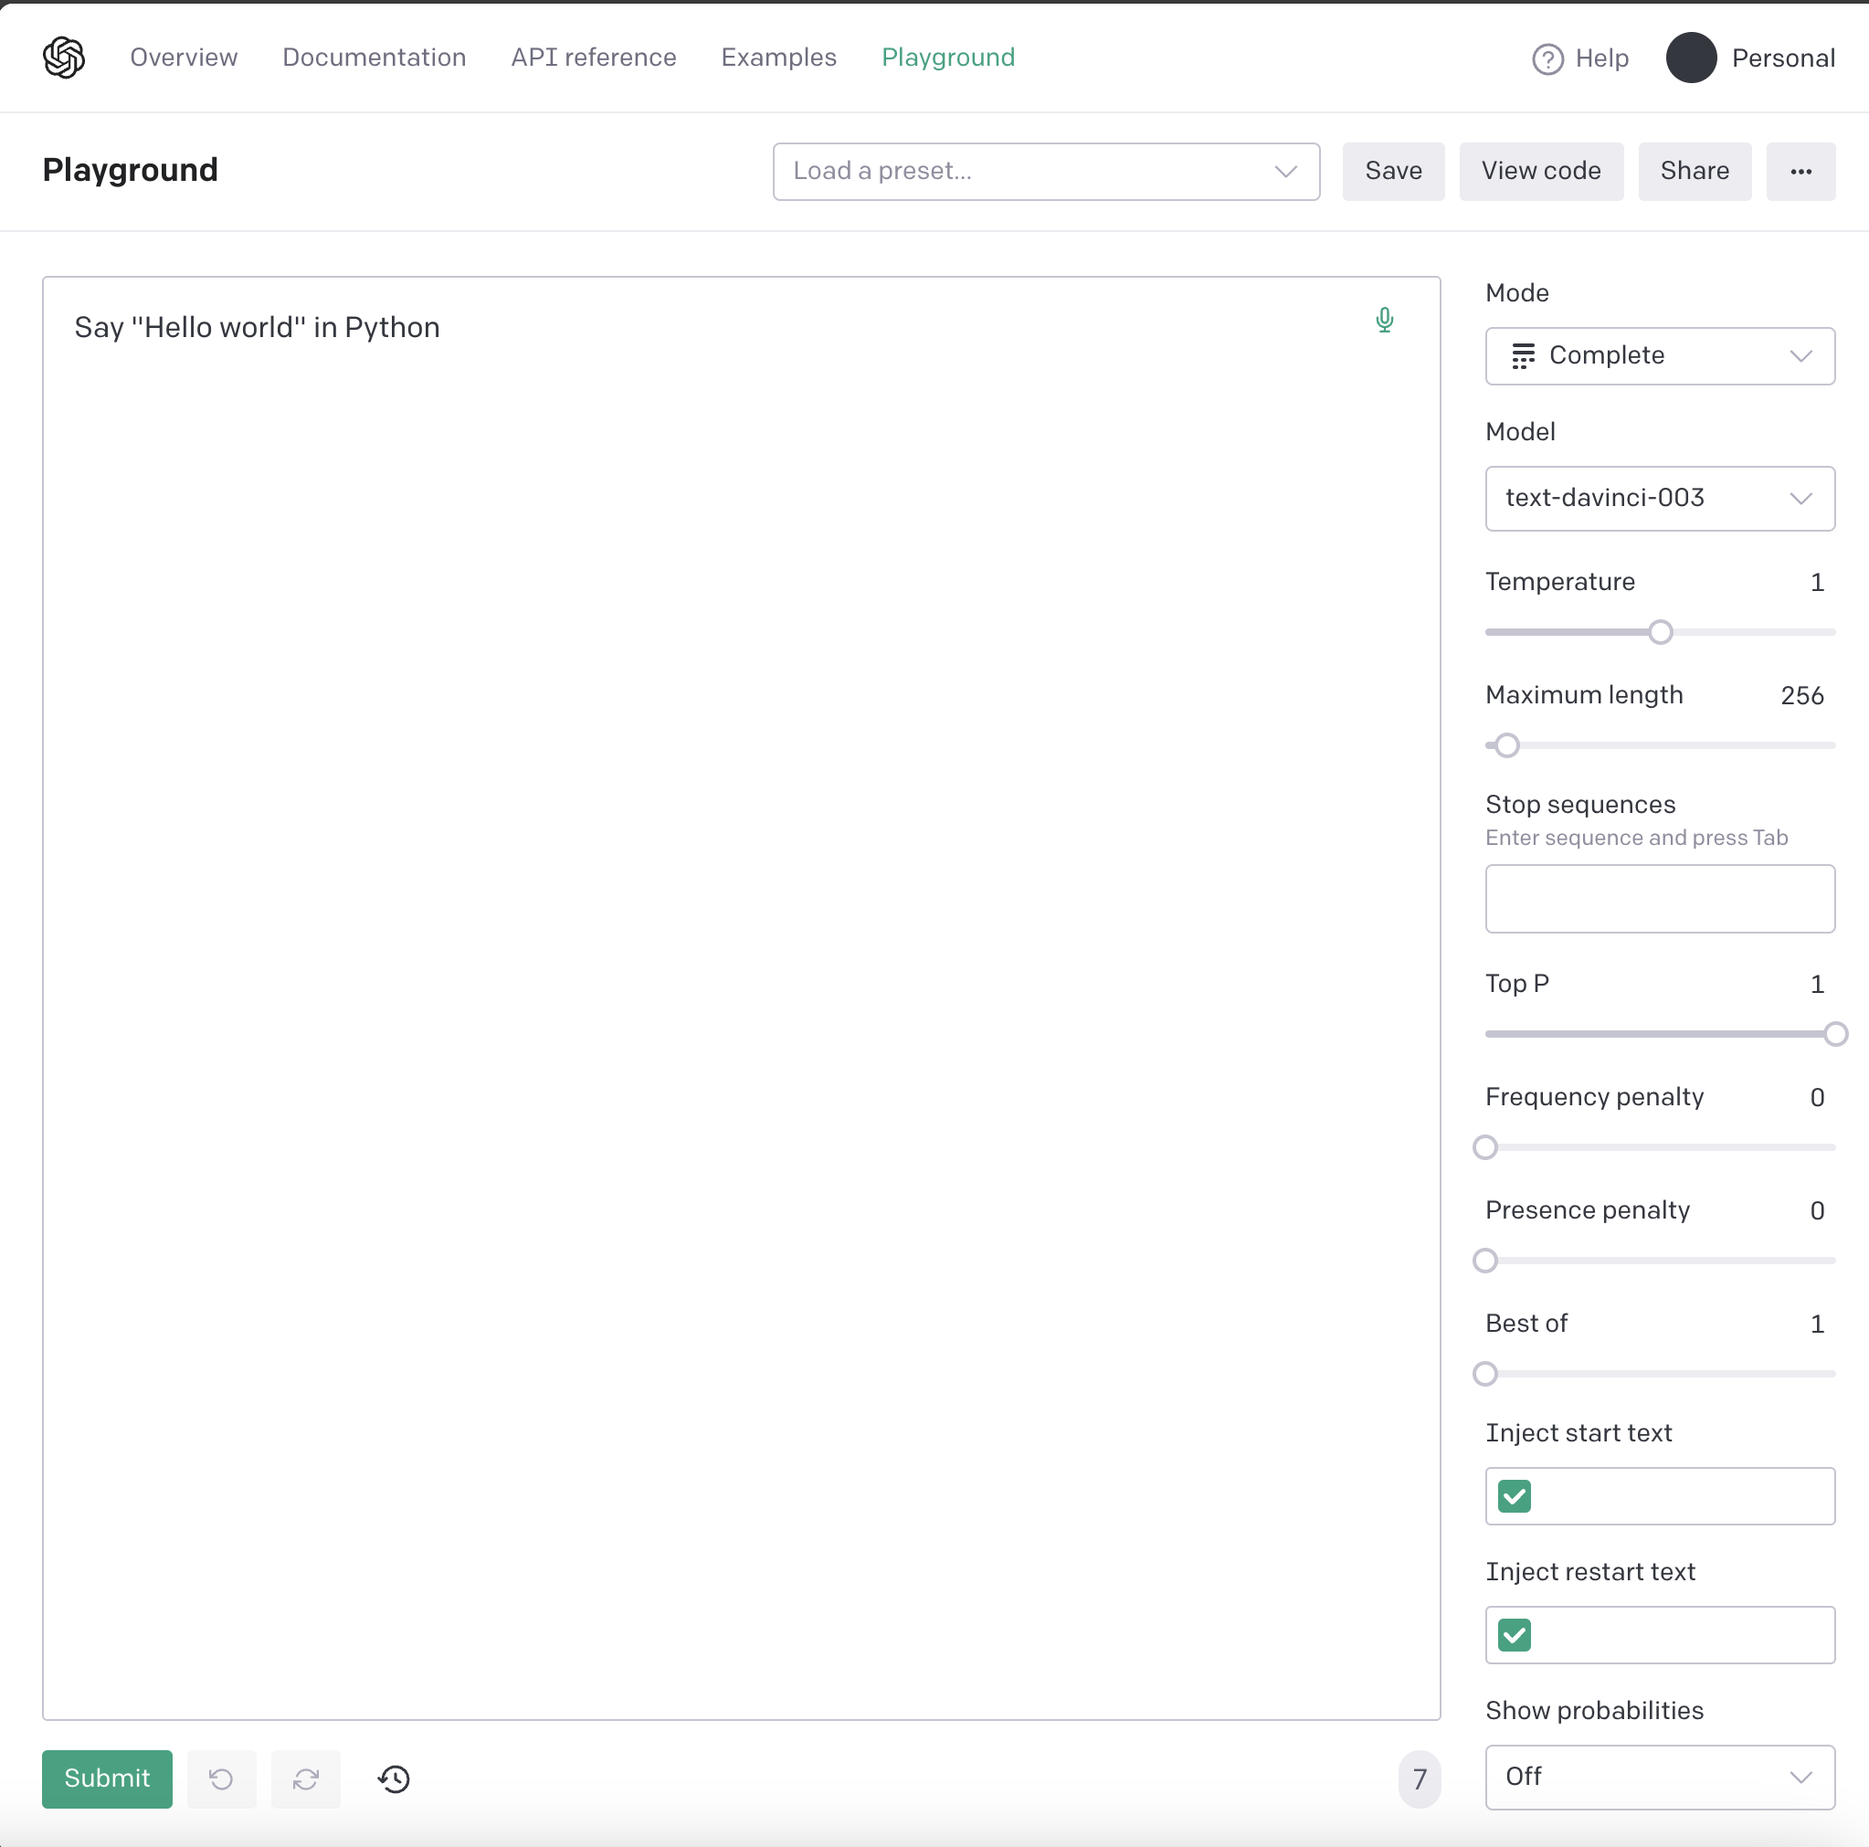
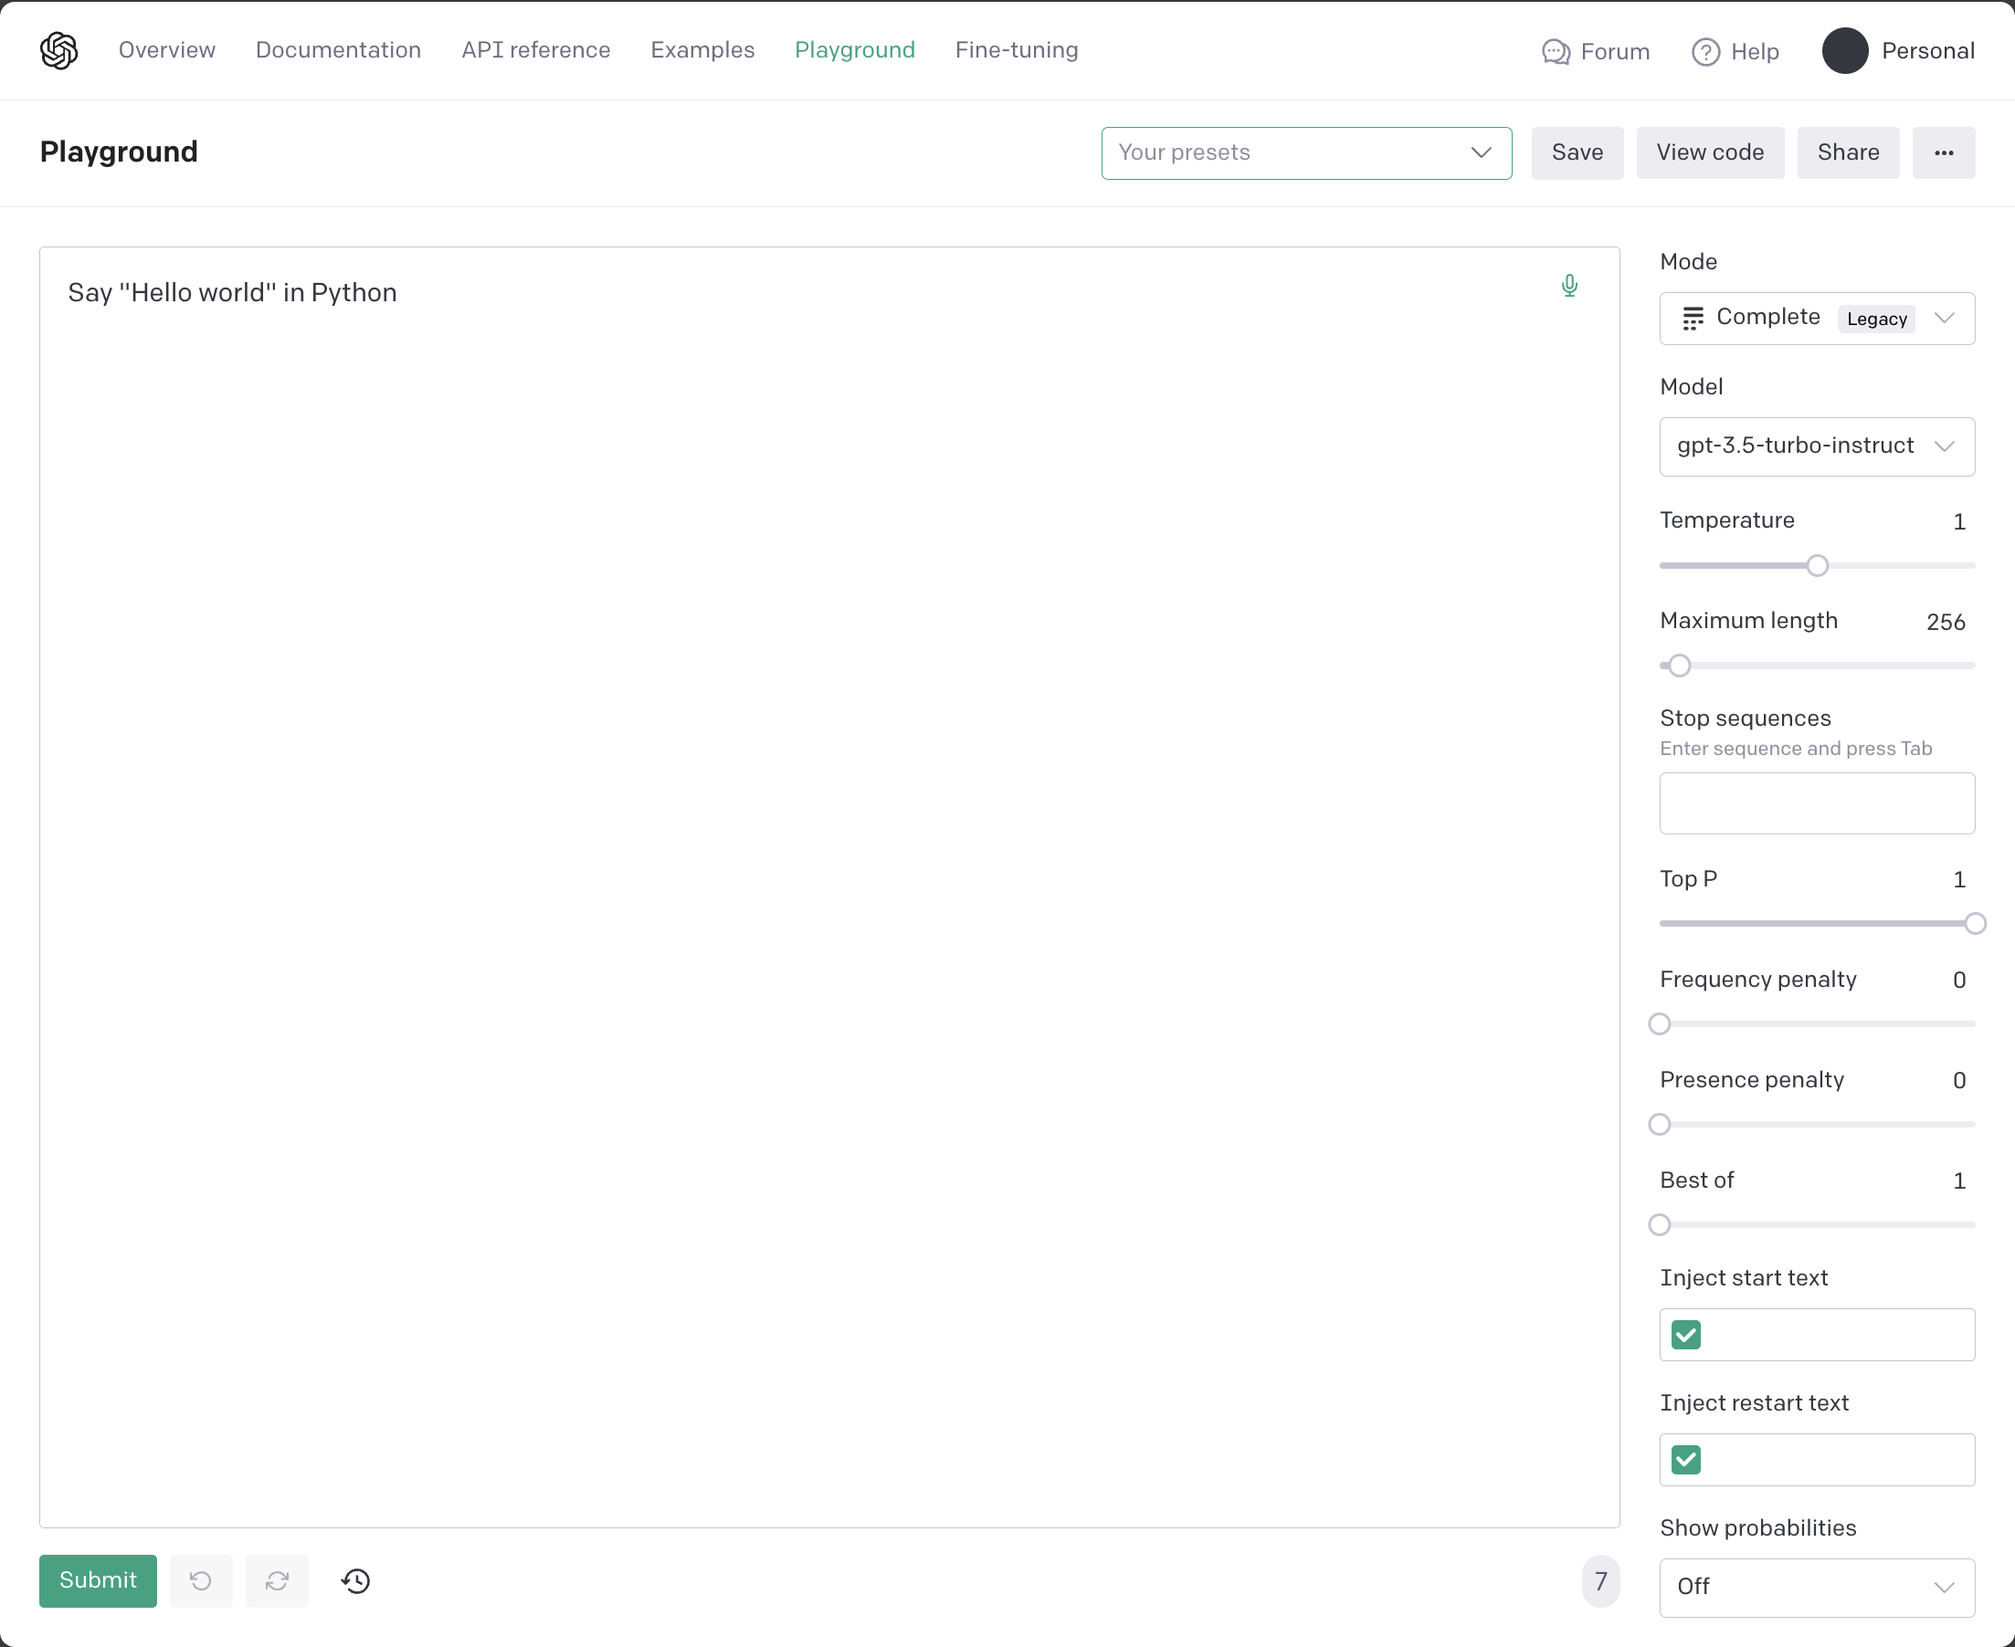
Update to use gpt-3.5-turbo-instruct instead of text-davinci-003

diff --git a/code/08/05.py b/code/08/05.py
@@ -1,4 +1,7 @@
-from llm_utils import Template
+import openai
+import os
+
+openai.api_key = os.getenv('OPENAI_API_KEY')
 
 guide = '''
 You are a large language model trained on vast amounts of data.
@@ -6,8 +9,9 @@ You respond to questions based on the data you were trained on.
 When you do not have enough information to provide an accurate answer, you will say so.
 '''
 
-chat = Template({
-    'max_tokens': 500,
-    'prompt': guide + 'Tell me about the habitat and behavior of the flying razor fish.'})
+response = openai.Completion.create(
+    model='text-davinci-003',
+    max_tokens=500,
+    prompt=guide + 'Tell me about the habitat and behavior of the flying razor fish.')
 
-print(chat.completion({}).choices[0].text)
+print(response.choices[0].text)

diff --git a/code/08/03.py b/code/08/03.py
@@ -1,7 +1,11 @@
-from llm_utils import Template
+import openai
+import os
 
-chat = Template({
-    'max_tokens': 500,
-    'prompt': 'Tell me about the habitat and behavior of the flying razor fish.'})
+openai.api_key = os.getenv('OPENAI_API_KEY')
 
-print(chat.completion({}).choices[0].text)
+response = openai.Completion.create(
+    model='text-davinci-003',
+    max_tokens=500,
+    prompt='Tell me about the habitat and behavior of the flying razor fish.')
+
+print(response.choices[0].text)

diff --git a/code/llm_utils/llm_utils.py b/code/llm_utils/llm_utils.py
@@ -35,7 +35,7 @@ class Template:
         instance['prompt'] = insert_params(instance['prompt'], **parameters)
 
         return openai.Completion.create(
-            model='text-davinci-003',
+            model='gpt-3.5-turbo-instruct',
             **instance)
 
 

diff --git a/code/01/05.py b/code/01/05.py
@@ -3,7 +3,7 @@ import os
 
 openai.api_key = os.getenv('OPENAI_API_KEY')
 response = openai.Completion.create(
-    model='text-davinci-003',
+    model='gpt-3.5-turbo-instruct',
     prompt='Say "Hello world" in Python')
 
 print(response.choices[0].text)

diff --git a/code/02/02.py b/code/02/02.py
@@ -3,7 +3,7 @@ import os
 
 openai.api_key = os.getenv('OPENAI_API_KEY')
 response = openai.Completion.create(
-    model='text-davinci-003',
+    model='gpt-3.5-turbo-instruct',
     prompt='Say "Hello world" in Python')
 
 print(response.choices[0].text)

diff --git a/code/03/13.py b/code/03/13.py
@@ -30,5 +30,5 @@ class Template:
         instance['prompt'] = format(instance['prompt'], **parameters)
 
         return openai.Completion.create(
-            model='text-davinci-003',
+            model='gpt-3.5-turbo-instruct',
             **instance)

diff --git a/code/02/12.py b/code/02/12.py
@@ -3,7 +3,7 @@ import os
 
 openai.api_key = os.getenv('OPENAI_API_KEY')
 response = openai.Completion.create(
-    model='text-davinci-003',
+    model='gpt-3.5-turbo-instruct',
     prompt='Say "Hello world" in Python')
 
 print(response)

diff --git a/code/02/10.py b/code/02/10.py
@@ -1,6 +1,6 @@
 import tiktoken
 
-enc = tiktoken.encoding_for_model('text-davinci-003')
+enc = tiktoken.encoding_for_model('gpt-3.5-turbo-instruct')
 tokens = enc.encode('Say "Hello world" in Python')
 
 print(tokens)

diff --git a/text/02.md b/text/02.md
@@ -290,7 +290,7 @@ We will focus on the so-called *completion models* and their applications.
 > **Definition**: A *completion model* takes a prompt and returns one or more
 predicted completions, meaning text that is most likely to follow the prompt.
 
-In chapter 1, we prompted `text-davinci-003` (a model from the GPT-3.5
+In chapter 1, we prompted `gpt-3.5-turbo-instruct` (a model from the GPT-3.5
 generation) to say “Hello world!” in Python. Let’s take another look at the code
 (listing 2.2), since we’re trying to better understand the API.
 
@@ -300,13 +300,13 @@ import os
 
 openai.api_key = os.getenv('OPENAI_API_KEY')
 response = openai.Completion.create(
-    model='text-davinci-003',
+    model='gpt-3.5-turbo-instruct',
     prompt='Say "Hello world" in Python')
 
 print(response.choices[0].text)
 ```
 
-*Listing 2.2: “Hello world” in Python by text-davinci-003.*
+*Listing 2.2: “Hello world” in Python by gpt-3.5-turbo-instruct.*
 
 We are calling the create completion API, passing it the model and prompt. Since
 chat/interactive interactions have become a key scenario, OpenAI introduced
@@ -369,7 +369,7 @@ in fact this is not the case. Each request contains the full conversation
 history!
 
 For interactive scenarios, when using a completion model like
-`text-davinci-003`, you would use a prompt like listing 2.5.
+`gpt-3.5-turbo-instruct`, you would use a prompt like listing 2.5.
 
 ```text
 You are a helpful AI assistant.
@@ -461,7 +461,7 @@ We extract the first `message`, print it to the console, and append it to
 history for subsequent calls.
 
 That’s it! You can take it for a spin and have a quick chat with
-`gpt-3.5-turbo`. Note if we would’ve used `text-davinci-003` for this, we
+`gpt-3.5-turbo`. Note if we would’ve used `gpt-3.5-turbo-instruct` for this, we
 would’ve handcrafted the history by appending to a string.
 
 The full list of GPT-3.5 models offered at the time of writing is captured in
@@ -469,26 +469,26 @@ table 2.2.
 
 | MODEL | DESCRIPTION |
 | --- | --- |
-| gpt-3.5-turbo | Most capable GPT-3.5 model and optimized for chat at 1/10th the cost of text-davinci-003. Will be updated with our latest model iteration. |
+| gpt-3.5-turbo | Most capable GPT-3.5 model and optimized for chat at 1/10th the cost of text-davinci-003. |
 | gpt-3.5-turbo-16k | Same capabilities as the standard gpt-3.5-turbo model but with 4 times the context. |
+| gpt-3.5-turbo-instruct | Similar capabilities as text-davinci-003 but compatible with legacy Completions endpoint and not Chat Completions. |
 | gpt-3.5-turbo-0613 | Snapshot of gpt-3.5-turbo from June 13th 2023 with function calling data. Unlike gpt-3.5-turbo, this model will not receive updates, and will be deprecated 3 months after a new version is released. |
 | gpt-3.5-turbo-16k-0613 | Snapshot of gpt-3.5-turbo-16k from June 13th 2023. Unlike gpt-3.5-turbo-16k, this model will not receive updates, and will be deprecated 3 months after a new version is released. |
-| text-davinci-003 | Can do any language task with better quality, longer output, and consistent instruction-following than the curie, babbage, or ada models. Also supports inserting completions within text. |
-| text-davinci-002 | Similar capabilities to text-davinci-003 but trained with supervised fine-tuning instead of reinforcement learning. |
-| code-davinci-002 | Optimized for code-completion tasks. |
+| text-davinci-003 (Legacy) | Can do any language task with better quality, longer output, and consistent instruction-following than the curie, babbage, or ada models. Also supports inserting completions within text. |
+| text-davinci-002 (Legacy) | Similar capabilities to text-davinci-003 but trained with supervised fine-tuning instead of reinforcement learning. |
+| code-davinci-002 (Legacy) | Optimized for code-completion tasks. |
 
 *Table 2.2: GPT-3.5 models.*
 
-ada, babbage, and currie mentioned in the table (`text-ada-001`,
-`text-babbage-001`, and `text-currie-001`), together with `text-davinci-001`,
-are part of the older GPT-3 family of models.
+*ada*, *babbage*, and *currie* mentioned in the table as a comparison to
+*`text-davinci-003` (`text-ada-001`, `text-babbage-001`, and `text-currie-001`),
+*together with `text-davinci-001`, are part of the older GPT-3 family of models.
 
-We’ll use `text-davinci-003` and `gpt-3.5-turbo` throughout this book. Table 2.2
-mentions that `gpt-3.5-turbo` is 10 times cheaper than `text-davinci-003`. We
-started with `text-davinci-003` for its simpler prompt structure, but since
-`gpt-3.5-turbo` is the model that will continue being updated and it costs an
-order of magnitude less, we will be using this model in most of the following
-code examples.
+We’ll use `gpt-3.5-turbo-instruct` and `gpt-3.5-turbo` throughout this book. In
+the first draft of this book, examples used `text-davinci-003`, which used to be
+the top performing completion model (with `gpt-3.5-turbo` and GPT-4 being chat
+completion models). Since then, `text-davinci-003` has been deprecated in favor
+of the new `gpt-3.5-turbo-instruct`.
 
 Since we’re talking about costs, to better understand how OpenAI charges for
 usage, we need to understand tokens.
@@ -552,7 +552,7 @@ shows the code to do this.
 ```python
 import tiktoken
 
-enc = tiktoken.encoding_for_model('text-davinci-003')
+enc = tiktoken.encoding_for_model('gpt-3.5-turbo-instruct')
 tokens = enc.encode('Say "Hello world" in Python')
 
 print(tokens)
@@ -668,7 +668,7 @@ returned by the model, we’ll print the whole reply.
 ### Completion response
 
 Listing 2.12 shows the code, the only difference from listing 2.2 is on the last
-line.
+line (we’re printing the whole response payload, not just the completion text).
 
 ```python
 import openai
@@ -676,7 +676,7 @@ import os
 
 openai.api_key = os.getenv('OPENAI_API_KEY')
 response = openai.Completion.create(
-    model='text-davinci-003',
+    model='gpt-3.5-turbo-instruct',
     prompt='Say "Hello world" in Python')
 
 print(response)
@@ -696,14 +696,14 @@ Listing 2.13 shows the JSON response we get when running this code.
       "text": "\n\nprint(\"Hello world\")"
     }
   ],
-  "created": 1682285944,
-  "id": "cmpl-78biCYERRqP7jSHMBy8nXoMVshOAr",
-  "model": "text-davinci-003",
+  "created": 1696028086,
+  "id": "cmpl-84GfewCM1npGywwNEDFMlMd5SzfFL",
+  "model": "gpt-3.5-turbo-instruct",
   "object": "text_completion",
   "usage": {
-    "completion_tokens": 7,
+    "completion_tokens": 6,
     "prompt_tokens": 7,
-    "total_tokens": 14
+    "total_tokens": 13
   }
 }
 ```
@@ -1190,7 +1190,7 @@ engineering.
   3/4 of a word.
 * Models have an upper bound of how many tokens they can used due to their
   architecture. OpenAI charges API calls based on token usage.
-* Completion models (like `text-davinci-003`) take a prompt and return text most
+* Completion models (like `gpt-3.5-turbo-instruct`) take a prompt and return text most
   likely to follow the prompt.
 * Chat completion models (like `gpt-3.5-turbo`) are similar to completion models
   but optimized for chat interactions.

diff --git a/text/08.md b/text/08.md
@@ -95,19 +95,24 @@ Older models don’t do that well. Listing 8.3 shows the same prompt sent to
 `text-davinci-003`.
 
 ```python
-from llm_utils import Template
+import openai
+import os
 
-chat = Template({
-    'max_tokens': 500,
-    'prompt': 'Tell me about the habitat and behavior of the flying razor fish.'})
+openai.api_key = os.getenv('OPENAI_API_KEY')
 
-print(chat.completion({}).choices[0].text)
+response = openai.Completion.create(
+    model='text-davinci-003',
+    max_tokens=500,
+    prompt='Tell me about the habitat and behavior of the flying razor fish.')
+
+print(response.choices[0].text)
 ```
 
 *Listing 8.3: Asking text-davinci-003 for a description of a made-up species.*
 
-Unlike `gpt-3.5-tubro`, `text-davinci-003` has no problem hallucinating this
-inexistent species of fish (listing 8.4).
+We can’t use `llm_utils` here since our helpers use `gpt-3.5-turbo-instruct` for
+completion, not `text-davinci-003`. Unlike `gpt-3.5-tubro`, `text-davinci-003`
+has no problem hallucinating this inexistent species of fish (listing 8.4).
 
 ```text
 The flying razor fish (Hemipteronotus signatus) is a species of freshwater fish
@@ -143,7 +148,10 @@ prompt context and tell it to not make things up. Listing 8.5 shows an updated
 prompt for `text-davinci-003`.
 
 ```python
-from llm_utils import Template
+import openai
+import os
+
+openai.api_key = os.getenv('OPENAI_API_KEY')
 
 guide = '''
 You are a large language model trained on vast amounts of data.
@@ -151,11 +159,12 @@ You respond to questions based on the data you were trained on.
 When you do not have enough information to provide an accurate answer, you will say so.
 '''
 
-chat = Template({
-    'max_tokens': 500,
-    'prompt': guide + 'Tell me about the habitat and behavior of the flying razor fish.'})
+response = openai.Completion.create(
+    model='text-davinci-003',
+    max_tokens=500,
+    prompt=guide + 'Tell me about the habitat and behavior of the flying razor fish.')
 
-print(chat.completion({}).choices[0].text)
+print(response.choices[0].text)
 ```
 
 *Listing 8.5: Additional guidance to the model to avoid hallucinations.*

diff --git a/text/03.md b/text/03.md
@@ -423,7 +423,7 @@ class Template:
         instance['prompt'] = insert_params(instance['prompt'], **parameters)
 
         return openai.Completion.create(
-            model='text-davinci-003',
+            model='gpt-3.5-turbo-instruct',
             **instance)
 ```
 
@@ -501,10 +501,10 @@ print(response.choices[0].text)
 Now we can reuse our prompts by simply loading the JSON prompt template file and
 calling the `completion()` function with the right parameters to be replaced.
 
-To keep things simple, we used `text-davinci-003`. Since this is more expensive
-than `gpt-3.5-turbo`, let’s also provide an alternative that templates chat
-completions. Listing 3.15 shows how our lawyer large language model template
-would look like for chat completions. We’ll store this as `lawyer_chat.json`.
+To keep things simple, we used `gpt-3.5-turbo-instruct`. Let’s also provide an
+alternative that templates chat completions. Listing 3.15 shows how our lawyer
+large language model template would look like for chat completions. We’ll store
+this as `lawyer_chat.json`.
 
 ```json
 {

diff --git a/text/01.md b/text/01.md
@@ -414,7 +414,7 @@ import os
 
 openai.api_key = os.getenv('OPENAI_API_KEY')
 response = openai.Completion.create(
-    model='text-davinci-003',
+    model='gpt-3.5-turbo-instruct',
     prompt='Say "Hello world" in Python')
 
 print(response.choices[0].text)
@@ -424,8 +424,9 @@ print(response.choices[0].text)
 
 We are retrieving the OpenAI API key from the environment using `os.getenv()`,
 then calling the `openai.Completion.create()` API with the model
-`text-davinci-003` and the prompt `Say "Hello world" in Python`. We’ll discuss
-available models and how to call OpenAI APIs at length in the next chapter.
+`gpt-3.5-turbo-instruct` and the prompt `Say "Hello world" in Python`. We’ll
+discuss available models and how to call OpenAI APIs at length in the next
+chapter.
 
 The key takeaway for now is that the code prompts the model to respond with the
 Python code that prints “Hello world”. We get a `response` object back, and we
